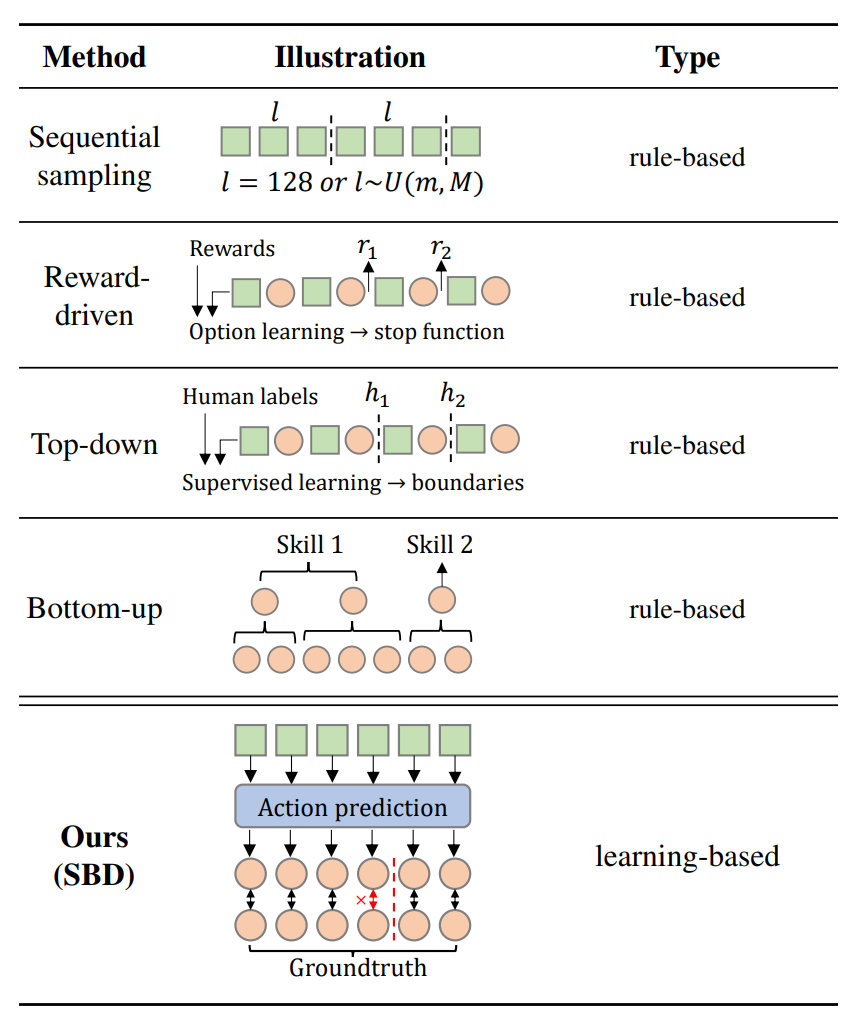
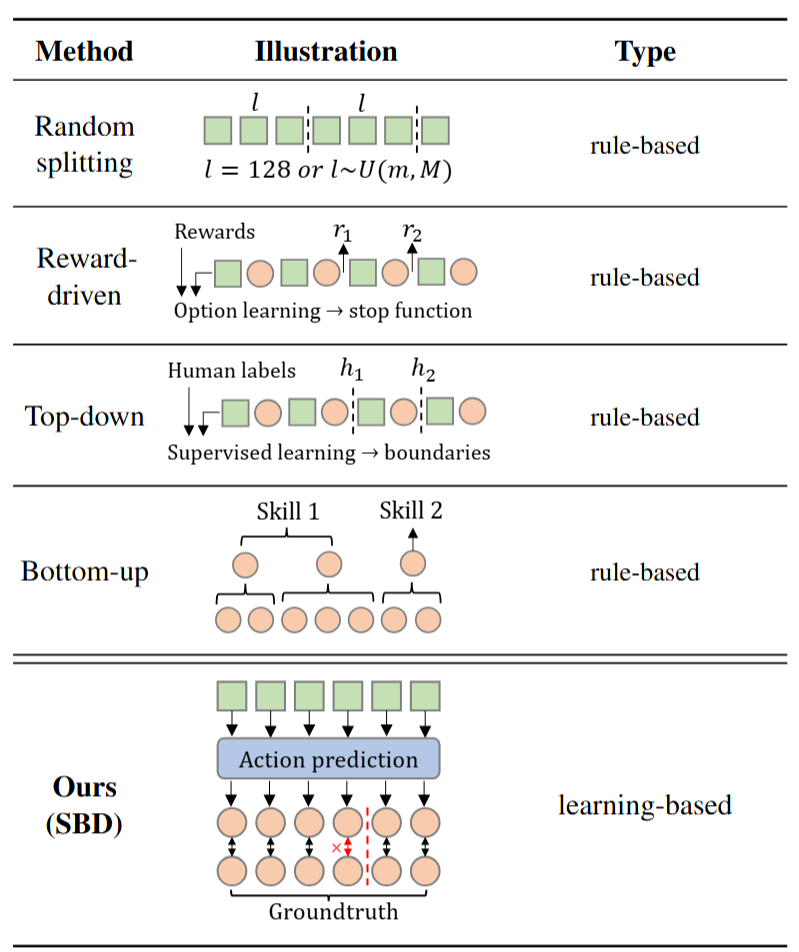
[Update] for camera-ready version

diff --git a/index.html b/index.html
@@ -133,9 +133,10 @@
           <p>
             Learning skills in open-world environments is essential for developing agents capable of handling a variety of tasks by combining basic skills.
             Online demonstration videos are typically long and unsegmented, making them difficult to segment and label with skill identifiers.
-            Unlike existing methods that rely on sequence sampling or human labeling, we have developed a self-supervised learning-based approach to segment these long videos into a series of semantic-aware and skill-consistent segments.
+            Unlike existing methods that rely on random splitting or human labeling, we have developed a self-supervised learning-based approach to segment these long videos into a series of semantic-aware and skill-consistent segments.
             Drawing inspiration from human cognitive event segmentation theory, we introduce <b>Skill Boundary Detection</b> (SBD), an annotation-free temporal video segmentation algorithm. SBD detects skill boundaries in a video by leveraging prediction errors from a pretrained unconditional action-prediction model. This approach is based on the assumption that a significant increase in prediction error indicates a shift in the skill being executed. 
-            We evaluated our method in the Minecraft environment, a rich open-world simulator with extensive gameplay videos available online. Our SBD-generated segments improved the average performance of two conditioned policies by 63.7% and 52.1% on short-term atomic skill tasks, and their corresponding hierarchical agents by 11.3% and 20.8% on long-horizon tasks. 
+            We evaluated our method in the Minecraft environment, a rich open-world simulator with extensive gameplay videos available online. Our SBD-generated segments improved the average relative performance of two conditioned policies by 63.7% and 52.1% on short-term atomic skill tasks, and their corresponding hierarchical agents by 11.3% and 20.8% on long-horizon tasks.
+            Our method can leverage the diverse YouTube videos to train instruction-following agents. 
           </p>
         </div>
       </div>
@@ -160,7 +161,7 @@
             Our method SBD for discovering skills from unsegmented demonstration videos consists of four stages:
           </p>
           <p>
-            <b>Stage I:</b> An <i>unconditional</i> Transformer-XL based policy model is pretrained on an unsegmented dataset to predict future actions (labeled by an inverse dynamics model) based on past observations.
+            <b>Stage I:</b> An <i>unconditional</i> Transformer-XL based policy model is pretrained on an unsegmented dataset to predict future actions (labeled by an inverse dynamics model) based on past observations using behavioral cloning.
           </p>
           <p>
             <b>Stage II:</b> The pretrained unconditional policy will produce a high predicted action loss when encountering uncertain observations (e.g., deciding whether to kill a new sheep) in open worlds. These timesteps should be marked as skill boundaries, indicating the need for additional instructions to control behaviors. We segment the long unsegmented videos into a series of short atomic skill demonstrations.
@@ -169,7 +170,7 @@
             <b>Stage III:</b> We train a <i>conditional</i> Transformer-XL based policy model on the segmented dataset to master a variety of atomic skills.
           </p>
           <p>
-            <b>Stage IV:</b> Finally, we use hierarchical methods (a combination of vision-language models and the conditional policy) to model the long demonstration and follow long-horizon instructions.
+            <b>Stage IV:</b> Finally, we use hierarchical methods (a combination of vision-language models and the conditional policy) to model the long demonstration videos and follow long-horizon instructions.
           </p>
         </div>
         <br/>
@@ -626,16 +627,16 @@
             <div class="content has-text-justified">
               <p>Existing methods usually rely on additional rules, while our method is learning-based.</p>
               <p>
-                <b>Sequential sampling methods</b> divide videos into segments of predefined lengths (e.g., fixed length, uniform distribution). However, these methods do not ensure that each segment contains a distinct skill. Additionally, predefined lengths may not match the actual distribution of skill lengths in real-world scenarios.
+                <b>Random splitting methods</b> divide videos into segments of predefined lengths (e.g., fixed length, uniform distribution). However, they do not ensure that each segment contains a distinct skill. Additionally, predefined lengths may not match the actual distribution of skill length in real world.
               </p>
               <p>
-                <b>Reward-driven methods</b> discover skills through the environment’s reward signal. It is limited by its inability to capture skills that lack associated rewards and by the risk of splitting a single skill into multiple segments when rewards are repeatedly gained during execution.
+                <b>Reward-driven methods</b> discover skills through the environment’s reward signal. They are limited by their inability to capture skills with no associated rewards and by the risk of splitting one skill into multiple segments when rewards are repeatedly gained during execution.
               </p>
               <p>
-                <b>Top-down methods</b> rely on predefined skill sets from human experts. They use manual labeling or supervised learning to segment videos. Although this approach can produce reasonable results, it is expensive and limited by the narrow range of predefined skills.
+                <b>Top-down methods</b> rely on predefined skill sets from human experts. They use manual labeling or supervised learning to segment videos. Although this method can produce reasonable results, it is expensive and limited by the narrow range of predefined skills.
               </p>
               <p>
-                <b>Bottom-up methods</b> use algorithms such as agglomerative clustering or byte-pair encoding (BPE) to split action sequences. However, they struggle in partially observable settings where both observations and actions must be considered because these algorithms cannot deal with observations due to the high dimensionality.
+                <b>Bottom-up methods</b> use algorithms such as agglomerative clustering or byte-pair encoding (BPE) to split action sequences. However, they struggle in visually partially observable settings where both observations and actions must be considered.
               </p>
 
               <p>
@@ -665,10 +666,9 @@
           <p>
             We select basic skills such as <code>chop down trees</code> and advanced skills like <code>smelt items with furnace</code> in Minecraft as evaluation benchmarks.
             We test 12 different skill sets designed in <a href="https://arxiv.org/pdf/2310.08367">MCU</a>.
-            Each task is tested over 100 times, except for <code>sleep in bed</code> and <code>use bow</code>, which are evaluated 10 times using human rating.
-            Scores with % indicate success rates, while those without % represent rewards for the corresponding tasks.
-            The seeds for the Minecraft environment are fixed for the corresponding task to make a fair comparison between different models.
-            The controllers showed substantial improvements across most tasks, with an average performance enhancement of 63.7% for <a href="https://craftjarvis.github.io/GROOT/">GROOT</a> and 52.1% for <a href="https://sites.google.com/view/steve-1">STEVE-1</a>.
+            Each task is tested over 100 times, except for <code>sleep in bed</code> and <code>use bow</code>, which are evaluated 10 times using human rating because they cannot be automatically verified with in-game information.
+            Scores with % indicate success rates, while those without % represent rewards for the corresponding tasks (for finer-grained assessment of easier tasks).
+            The controllers showed substantial improvements across most tasks, with an average relative performance enhancement of 63.7% for <a href="https://craftjarvis.github.io/GROOT/">GROOT</a> and 52.1% for <a href="https://sites.google.com/view/steve-1">STEVE-1</a>.
           </p>
         </div>
         <br/>
@@ -683,8 +683,8 @@
           <p>
             Programmatic tasks require the agent to start from an empty inventory in a new world until obtaining the final required items, such as “obtain an iron pickaxe from scratch”, which is usually a chain of atomic tasks. 
             To further verify that the improvements in controllers enhance the ability of hierarchical agents, we evaluate <a href="https://omnijarvis.github.io/">Omnijarvis</a> and <a href="https://craftjarvis.github.io/JARVIS-1/">JARVIS-1</a> on groups of programmatic tasks selected from the original papers.
-            All tasks are tested 30 times. In each group, the agent is required to obtain a certain type of items from scratch or given an iron pickaxe. For example, the diamond group includes diamond pickaxe, diamond sword, jukebox, <i>etc</i>. 
-            The agents have substantial improvements across most of the tasks, achieving an average performance enhancement of 11.3% for Omnijarvis and 20.8% for JARVIS-1.
+            All tasks are tested over 30 times. In each group, the agent is required to obtain a certain type of items from scratch or be given an iron pickaxe. For example, the diamond group includes diamond pickaxe, diamond sword, jukebox, <i>etc</i>. 
+            The agents have substantial improvements across most of the tasks, achieving an average relative performance enhancement of 11.3% for Omnijarvis and 20.8% for JARVIS-1.
           </p>
         </div>
         <br/>
